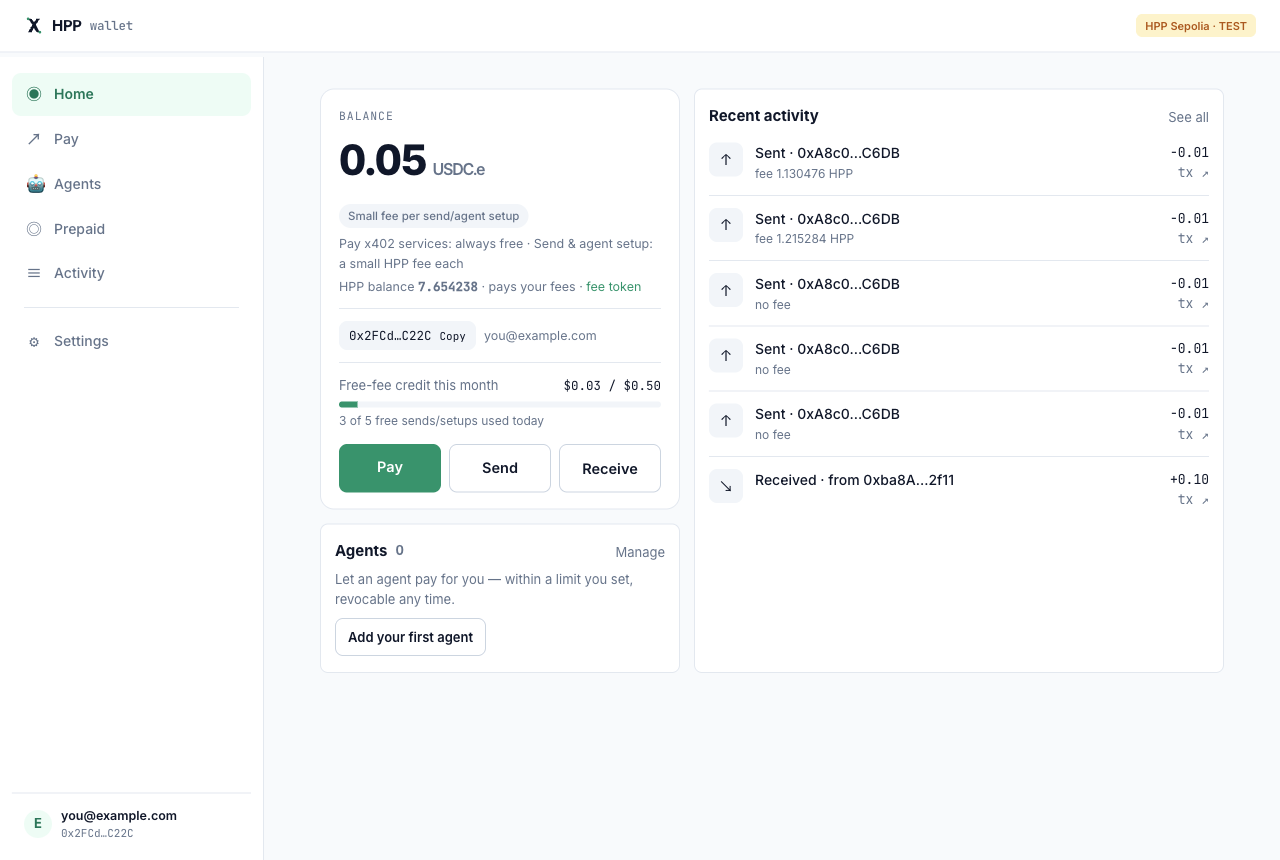
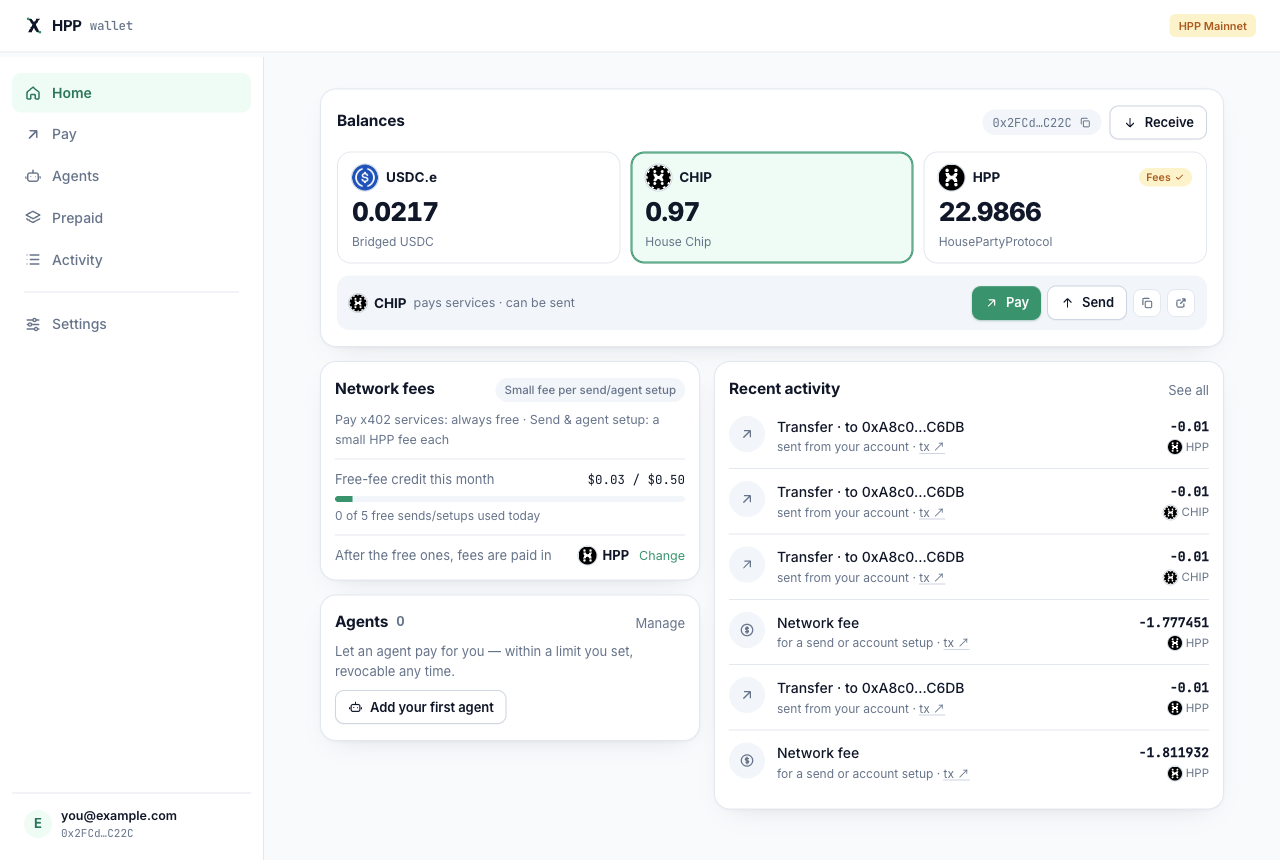
x402, smart-accounts: CHIP and HPP as payment tokens; new wallet home and send
x402: Networks & Token lists the three settlement tokens (USDC.e, CHIP, HPP)
with per-network addresses, EIP-712 domains, schemes and base units. Facilitator
gains a supported-tokens table and the pre-settlement rejection reasons. Sellers
quickstart shows how to price in CHIP or HPP. The agent guide explains the token
allowlist and that spend caps are in dollars, with HPP valued by the published
rate.

smart-accounts: the wallet guide follows the new home (one balance tile per
token, per-token actions, fee token switch), sending any token, paying in the
token a service asks for, and fee rows in Activity. Nine screenshots retaken on
Mainnet with the email masked.

diff --git a/x402/intro.md b/x402/intro.md
@@ -27,7 +27,8 @@ wallet with no code.
 - **No accounts, no custody.** Payment moves from the buyer's wallet to the seller's `payTo` address;
   HPP's facilitator never custodies funds — it only verifies the signature and submits the settlement
   transaction (a direct transfer for `exact`, or a Permit2 transfer for `upto`).
-- **Stablecoin-native.** Prices are quoted in USDC.e. What the buyer signs is what the seller receives.
+- **Stablecoin-native.** Prices are quoted in USDC.e by default; a seller can also price in CHIP (the
+  HPP ecosystem credit) or HPP. What the buyer signs is what the seller receives.
 - **Open standard.** x402 is maintained by the [x402 Foundation](https://github.com/x402-foundation/x402),
   and HPP uses the same `@x402` SDK that works on Base, Polygon, and others — pointed at HPP's networks
   and facilitator. One small setup step registers USDC.e as HPP's default asset (shown in the quickstarts).
